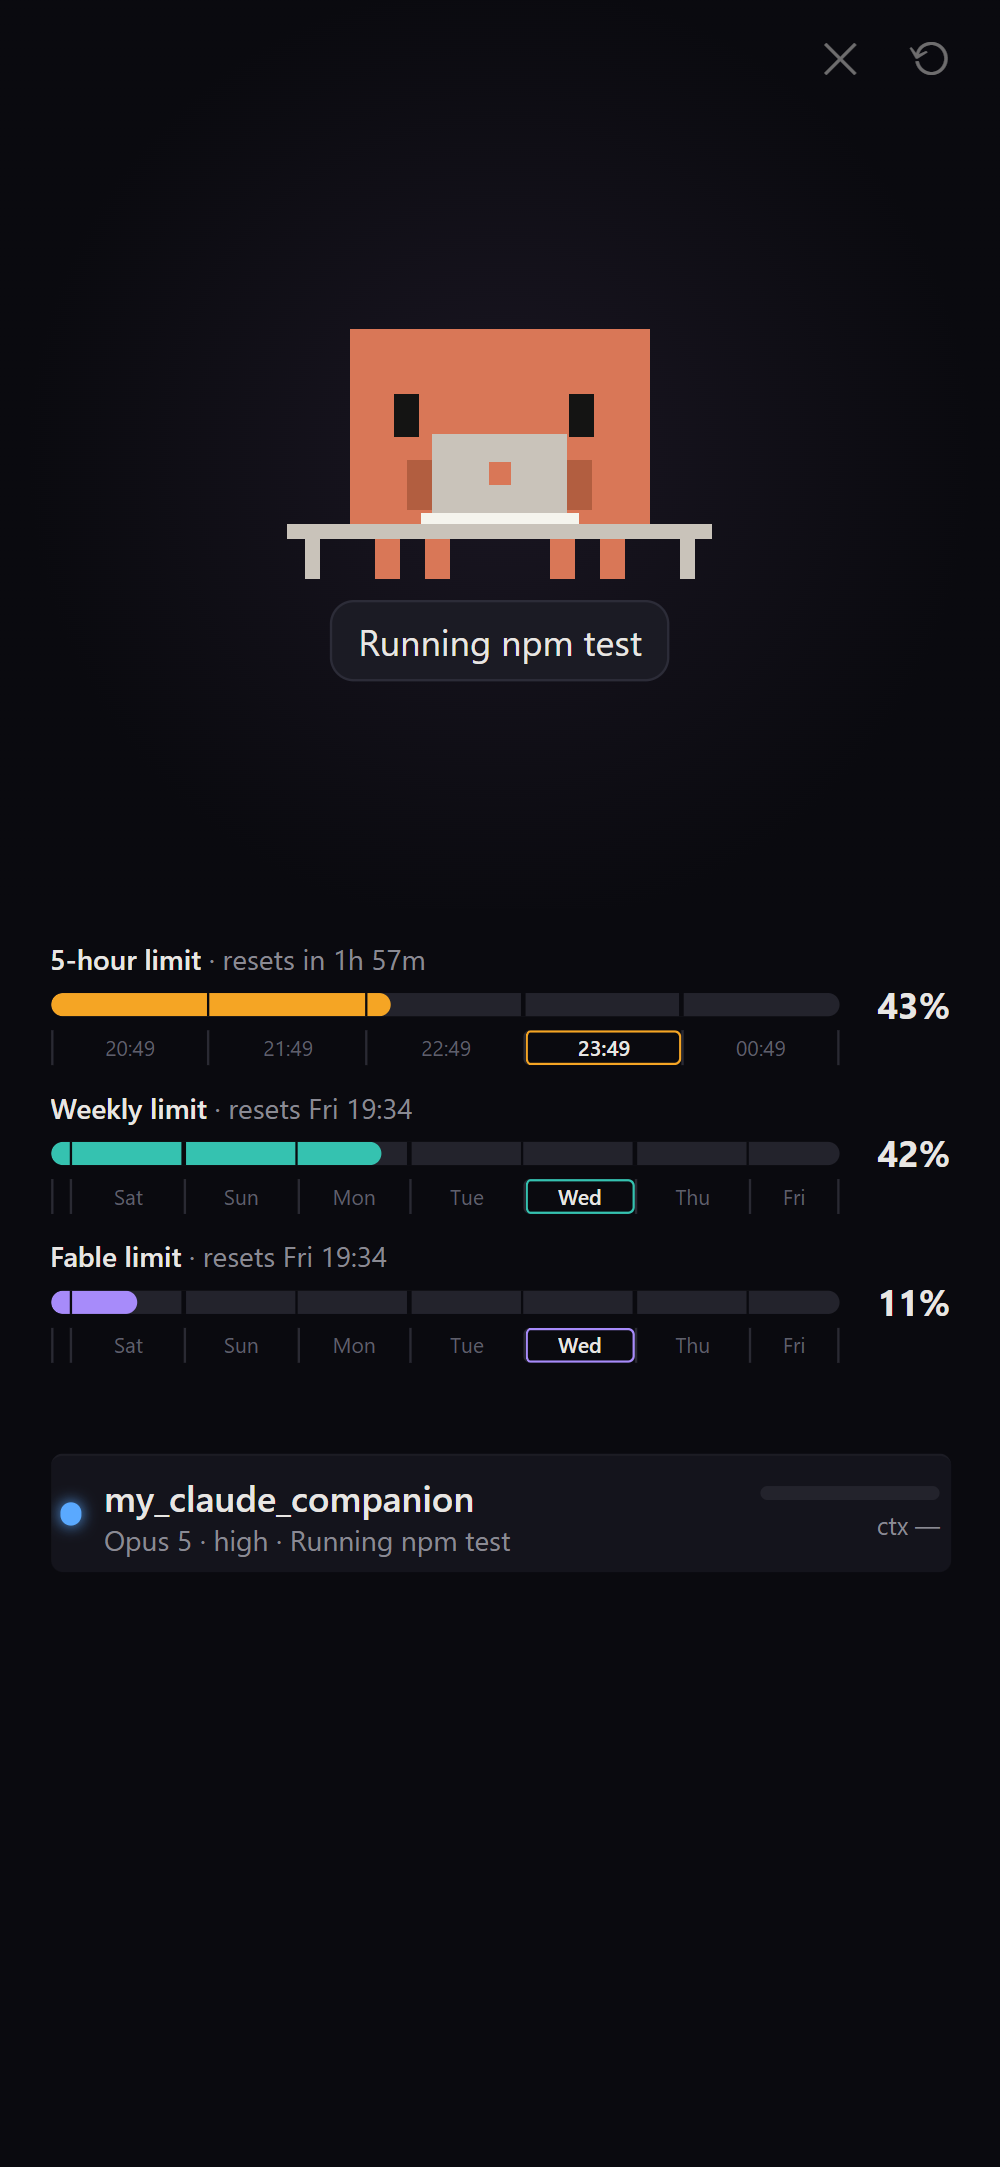
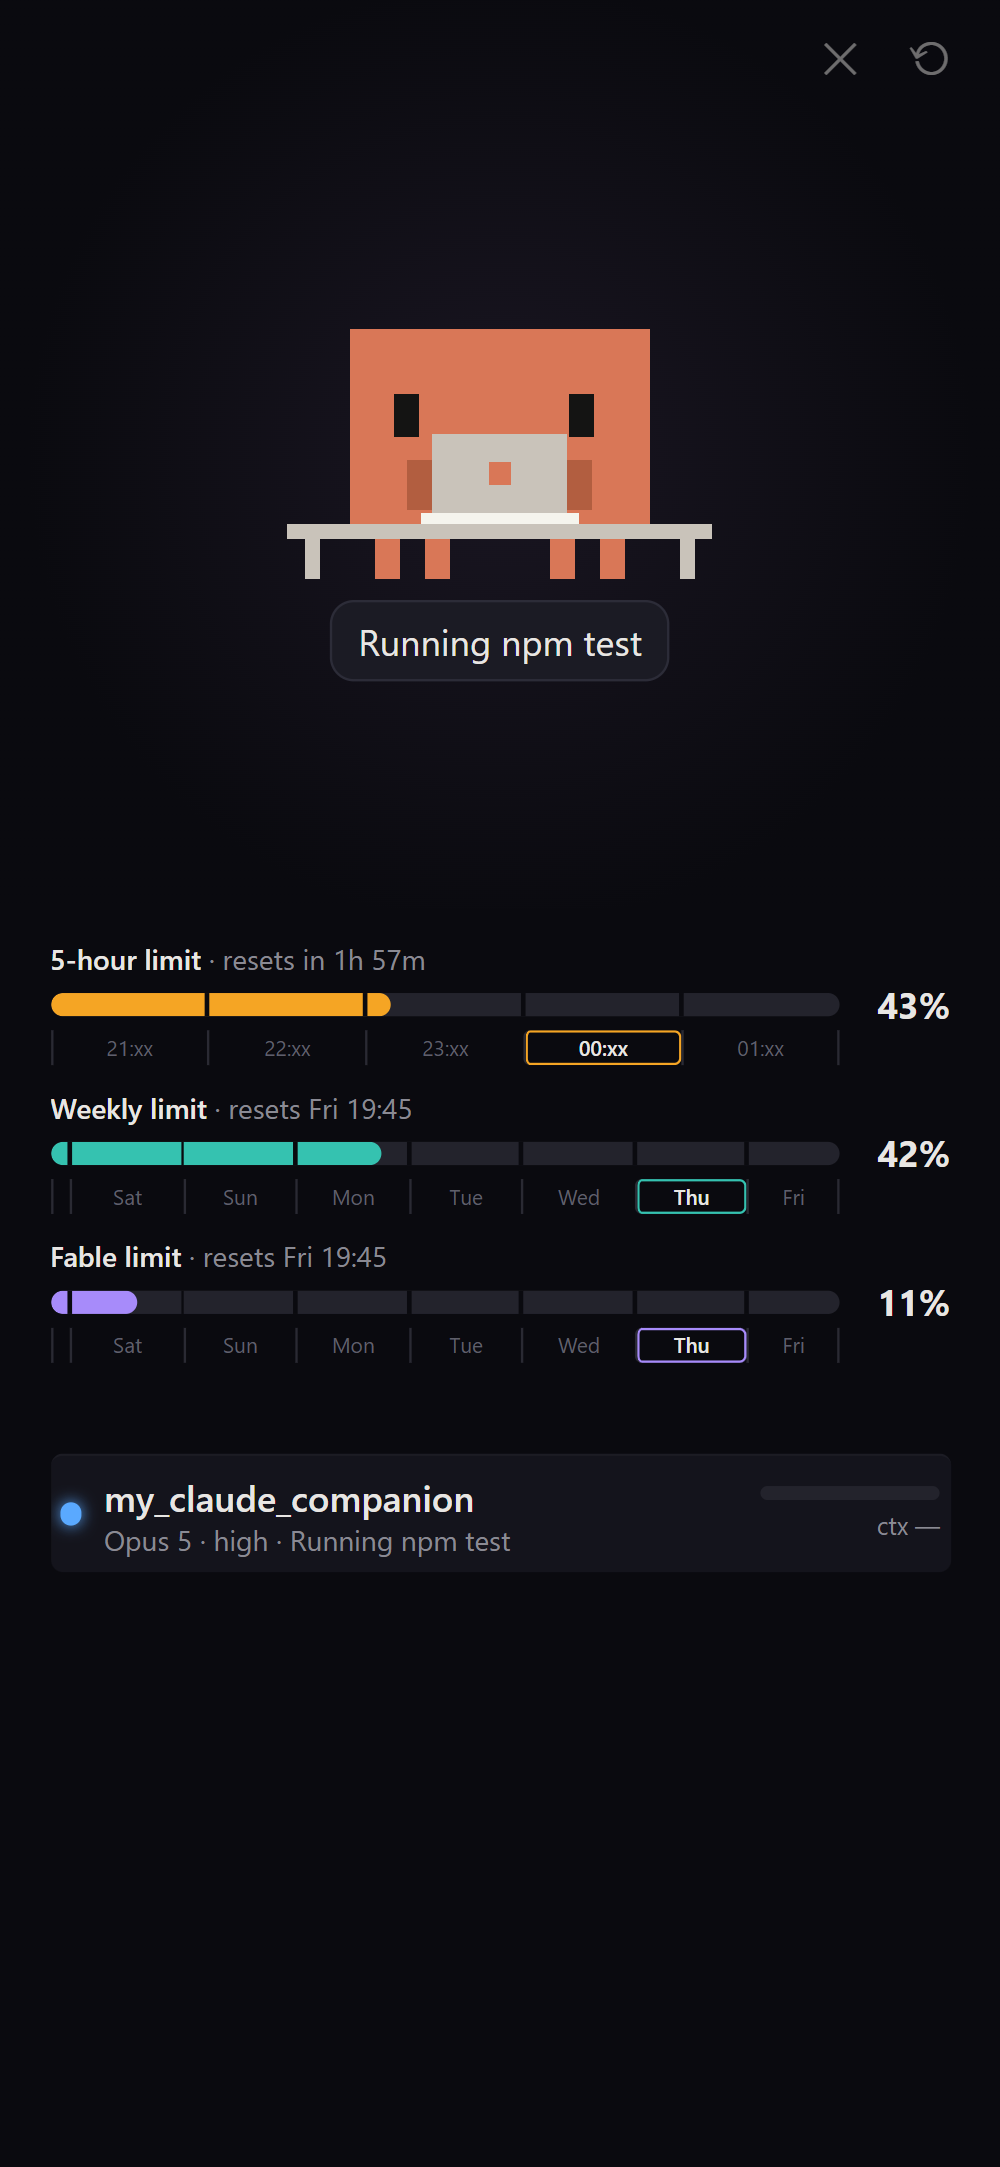
feat: 5-hour legend cells are clock hours named 20:xx; version 0.6.1
Like the day cells, the hour cells are now cut at the local hour, so the outlined cell is the
current hour and the partial first and last cells show where the window starts and ends.
Cuts within a minute of either end are skipped (resets land at 19:00:00.481), and the hour
repeated when DST ends is two cells.

diff --git a/src/web/format.js b/src/web/format.js
@@ -27,23 +27,28 @@ export function formatReset(resetsAt, now) {
 }
 
 const nextMidnight = t => { const d = new Date(t); d.setHours(24, 0, 0, 0); return d.getTime(); };
+// Steps back to the local hour's start, not setMinutes(60), which skips the repeated hour when DST ends.
+const nextHour = t => { const d = new Date(t); return t - (d.getMinutes() * 60e3 + d.getSeconds() * 1e3 + d.getMilliseconds()) + HOUR; };
+const hourName = t => `${String(new Date(t).getHours()).padStart(2, '0')}:xx`;
+const SLIVER_MS = 60e3;
 
 // The legend's cells, as { label, at, width, current } with at and width as fractions of the window.
-// Hours are equal slots named by their start time. Days are calendar days cut at local midnight, so the
-// outlined day is today: a window from Fri 19:00 opens with a short Fri and closes with most of the next Fri.
-// A day cell under 12 hours (and so too narrow for its name) goes unnamed; DST days are 23 or 25 hours.
-// The cell holding now is current; none is once the window has ended.
+// Cells are clock hours (named 20:xx) or calendar days (named Wed), cut at the local hour or midnight, so the
+// outlined cell is this hour or today: a window from 20:20 opens with a short 20:xx and closes with a short
+// 01:xx. A cell under half its size is too narrow for its name and goes unnamed; DST days are 23 or 25 hours.
+// Resets land a fraction of a second past the hour (19:00:00.481), so a cut that close to either end is
+// skipped rather than drawn as a sliver. The cell holding now is current; none is once the window has ended.
 export function limitSlots(bar, resetsAt, now) {
   if (!Number.isFinite(resetsAt)) return [];
   const span = bar.slots * bar.slotMs;
   const start = resetsAt - span;
+  const [next, name] = bar.slotMs < DAY ? [nextHour, hourName] : [nextMidnight, weekday];
   const edges = [start];
-  if (bar.slotMs < DAY) for (let i = 1; i < bar.slots; i++) edges.push(start + i * bar.slotMs);
-  else for (let d = nextMidnight(start); d < resetsAt; d = nextMidnight(d)) edges.push(d);
+  for (let d = next(start); d < resetsAt - SLIVER_MS; d = next(d)) if (d - start >= SLIVER_MS) edges.push(d);
   edges.push(resetsAt);
   return edges.slice(0, -1).map((from, i) => {
     const to = edges[i + 1];
-    const label = bar.slotMs < DAY ? hhmm(from) : to - from >= DAY / 2 ? weekday(from) : '';
+    const label = to - from >= bar.slotMs / 2 ? name(from + SLIVER_MS) : '';
     return { label, at: (from - start) / span, width: (to - from) / span, current: now >= from && now < to };
   });
 }
